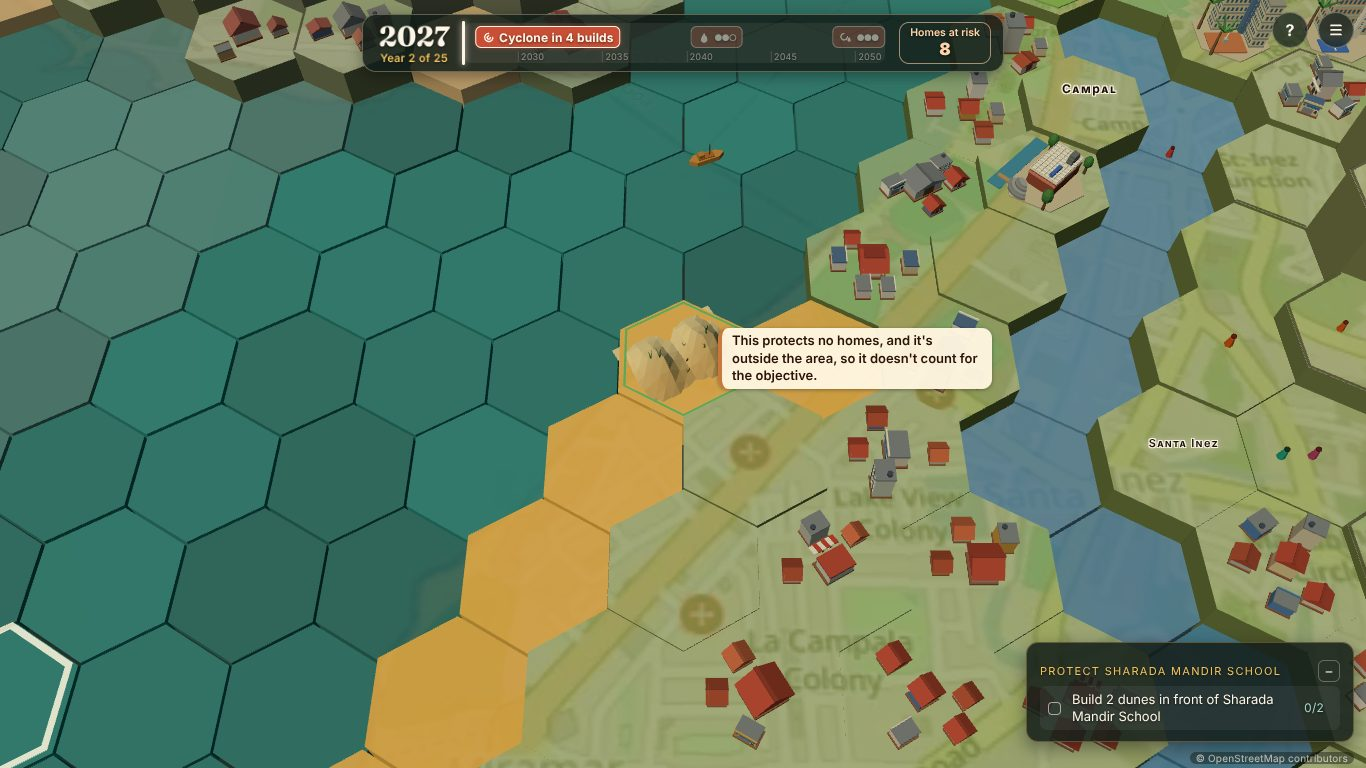
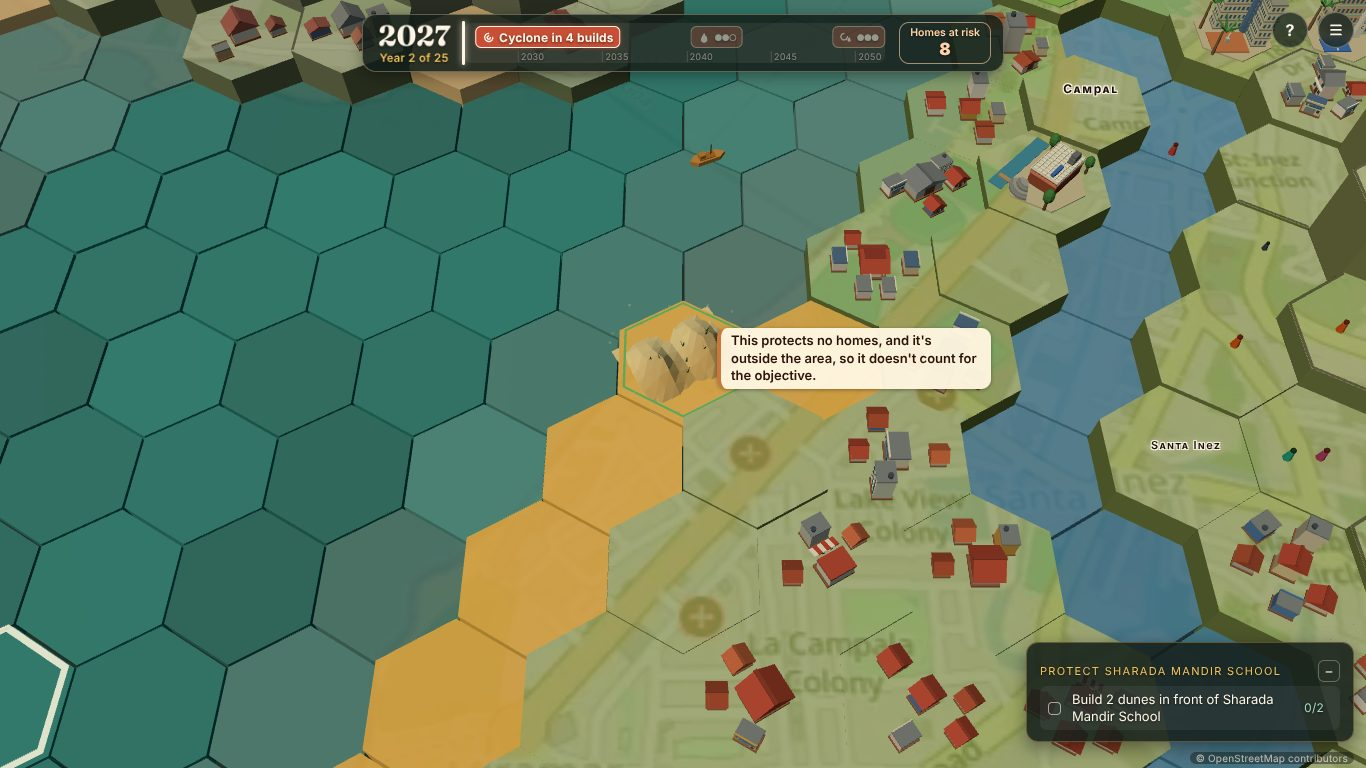
Section 23 QA: frame the 2050 shots on the sheltered centre, with an outlined copy for review
Claude-Session: https://claude.ai/code/session_01CR8PN9tFYneT4rrWy2Y36p

diff --git a/tools/section23Shots.ts b/tools/section23Shots.ts
@@ -48,6 +48,18 @@ const closeCards = async (): Promise<void> => {
     await page.waitForTimeout(900);
   }
 };
+/** Frames the sheltered middle of Taleigao (rows 16 to 28), wide enough for all of it and the coast beside it. */
+const frameShelter = async (): Promise<void> => {
+  await page.evaluate(`window.__panjimForTest.host.focusCamera({ q: -1, r: 22 }, true, 1.6)`);
+  await page.waitForTimeout(4000);
+  await page.mouse.move(2, H - 2);
+};
+/** The same shot again with the sheltered tiles outlined (the area outline, for the reviewer only: never in the game). */
+const outlined = async (name: string): Promise<void> => {
+  await page.evaluate(`(() => { const c3 = window.__panjimForTest.run.schedule.find((c) => c.id === "c3-compound"); window.__panjimForTest.host.showAreaOutline(c3.shelteredTiles.map(([q, r]) => q + "," + r)); })()`);
+  await page.waitForTimeout(1500);
+  await shot(`${name}-shelter-outlined`);
+};
 /** What the 2050 storm shows on the sheltered tiles: heat, cone bands, area and homes at risk. */
 const onShelter = (): Promise<Record<string, number>> =>
   page.evaluate(`(() => {
@@ -100,31 +112,30 @@ await closeCards();
 await scenario("past-storm");
 await closeCards();
 await page.waitForTimeout(1500);
-await page.keyboard.press("Home");
-await page.waitForTimeout(3500);
-await page.mouse.move(2, H - 2);
+await frameShelter();
 const cone = await onShelter();
 results.cone = cone;
 await shot("cone-2050");
+await outlined("cone-2050");
 check(cone.next === ("c3-compound" as never) && cone.coneBands === 0 && cone.coneArea === 0 && cone.coneMeet === 0, `23.1: the 2050 cone leaves the shelter clear (${JSON.stringify(cone)})`);
 
 // ---- 23.1 the 2050 heat: the last two years before it ------------------------------------------------------------
 await scenario("heat-2");
 await page.waitForTimeout(1500);
-await page.keyboard.press("Home");
-await page.waitForTimeout(3500);
-await page.mouse.move(2, H - 2);
+await frameShelter();
 const heat = await onShelter();
 results.heat = heat;
 const heatTiles = (await page.evaluate("window.__panjimForTest.run.homesAtRisk(window.__panjimForTest.run.nextChallenge())")) as number;
 results.homesAtRisk2050 = heatTiles;
 await shot("heat-2050");
+await outlined("heat-2050");
 check(heat.heat === 0 && heat.homesAtRisk === 0, `23.1: the 2050 heat and Homes at risk leave the shelter clear (${JSON.stringify(heat)}, Homes at risk ${heatTiles})`);
 
 // ---- 23.1 the 2050 storm's water, held mid-storm -----------------------------------------------------------------
+// The outline is cleared first: the storm's own shot shows only the storm.
+await page.evaluate("window.__panjimForTest.host.showAreaOutline([])");
 await scenario("storm-16");
-await page.keyboard.press("Home");
-await page.waitForTimeout(4000);
+await frameShelter();
 await shot("storm-2050");
 const drawn = (await page.evaluate(`(() => {
   const run = window.__panjimForTest.run;
